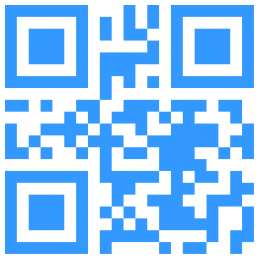
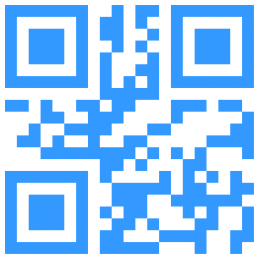
qr code gets genertated
qr code gets genertated

Changed region(s): [[0.3385, 0.3385, 0.9846, 0.9846], [0.4, 0.0, 0.6154, 0.3077], [0.0, 0.4, 0.3077, 0.6154]]

diff --git a/frontend/views/campaign/fund.php b/frontend/views/campaign/fund.php
@@ -6,22 +6,18 @@ use frontend\models\Campaign;
 use frontend\models\Reward;
 use frontend\assets\HomePageAsset;
 use yii\helpers\Url;
+use Da\QrCode\QrCode;
 
 
-$qrCode = (new \Da\QrCode\QrCode('test'))
+$qrCode = (new QrCode('new'))
     ->setSize(250)
     ->setMargin(5)
     ->useForegroundColor(51, 153, 255);
 
-// now we can display the qrcode in many ways
-// saving the result to a file:
-
-$qrCode->writeFile(__DIR__ . '/code.png'); // writer defaults to PNG when none is specified
+$qrCode->writeFile(__DIR__ . '/code.png');
 
 // display directly to the browser
 header('Content-Type: '.$qrCode->getContentType());
-$qrCode->writeString();
-
 
 
 HomePageAsset::register($this);
@@ -65,10 +61,7 @@ $reward = new Reward();
                                         <div style="alignment:center">
                                             <div style="display: inline-block;">
                                                 <p class="item-title">Use the generated QR Code to connect with your mobile wallet</p>
-                                                <?php
-                                                // or even as data:uri url
-                                                echo '<img src"'.$qrCode->writeDataUri().'">';
-                                                ?>
+                                                <img src="<?=$qrCode->writeDataUri()?>">
                                             </div>
                                         </div>
                                         <input class="btn btn-md btn-info" type="submit" value="Generate QR Code" id="submit" style="color: #ffffff;width: 25%;background-color: #940094;border: none;float: left;margin-left: 38%">
